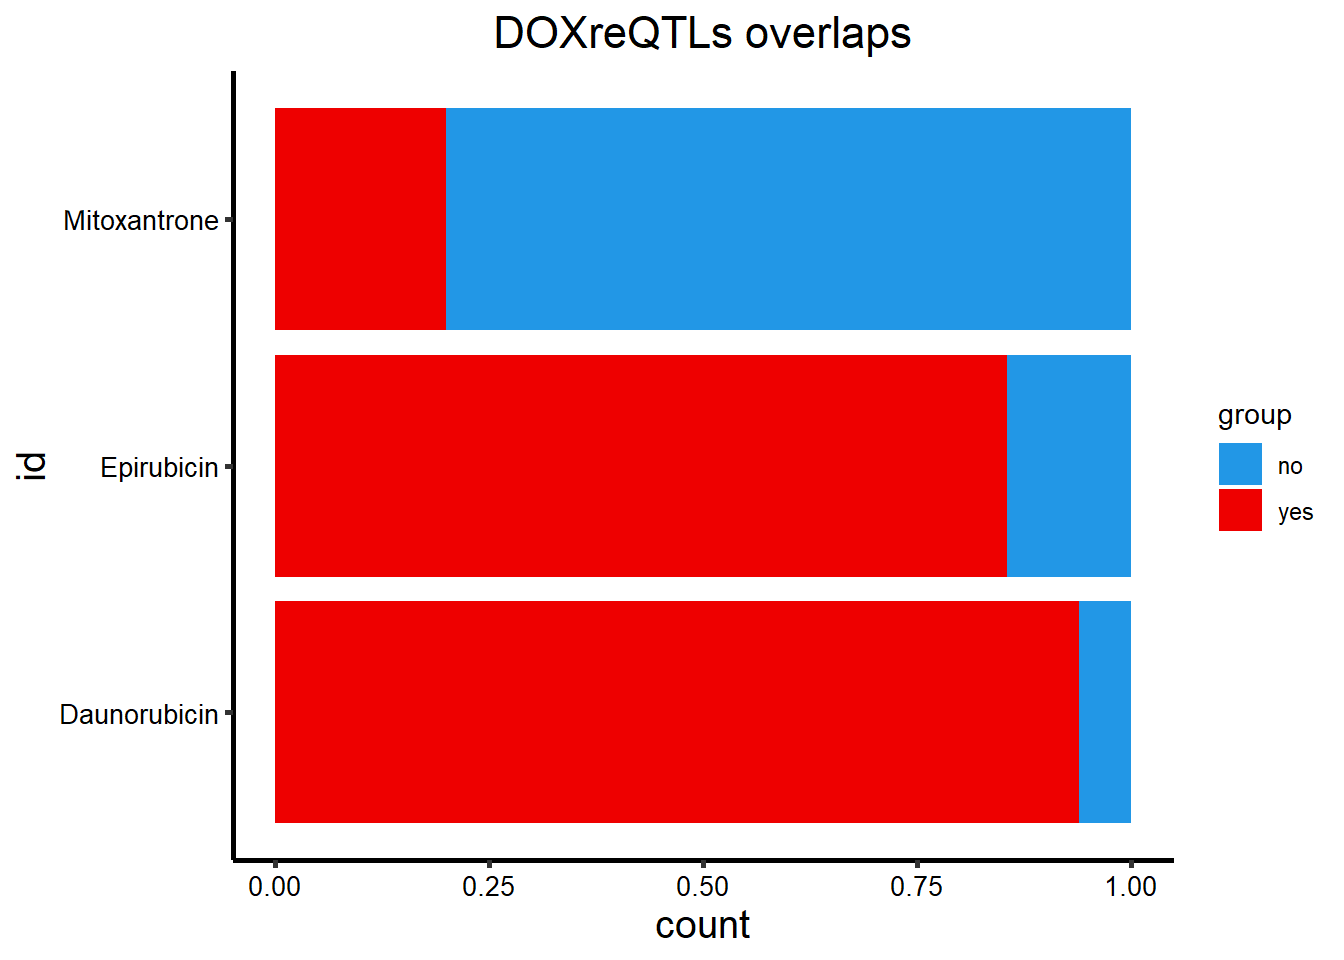
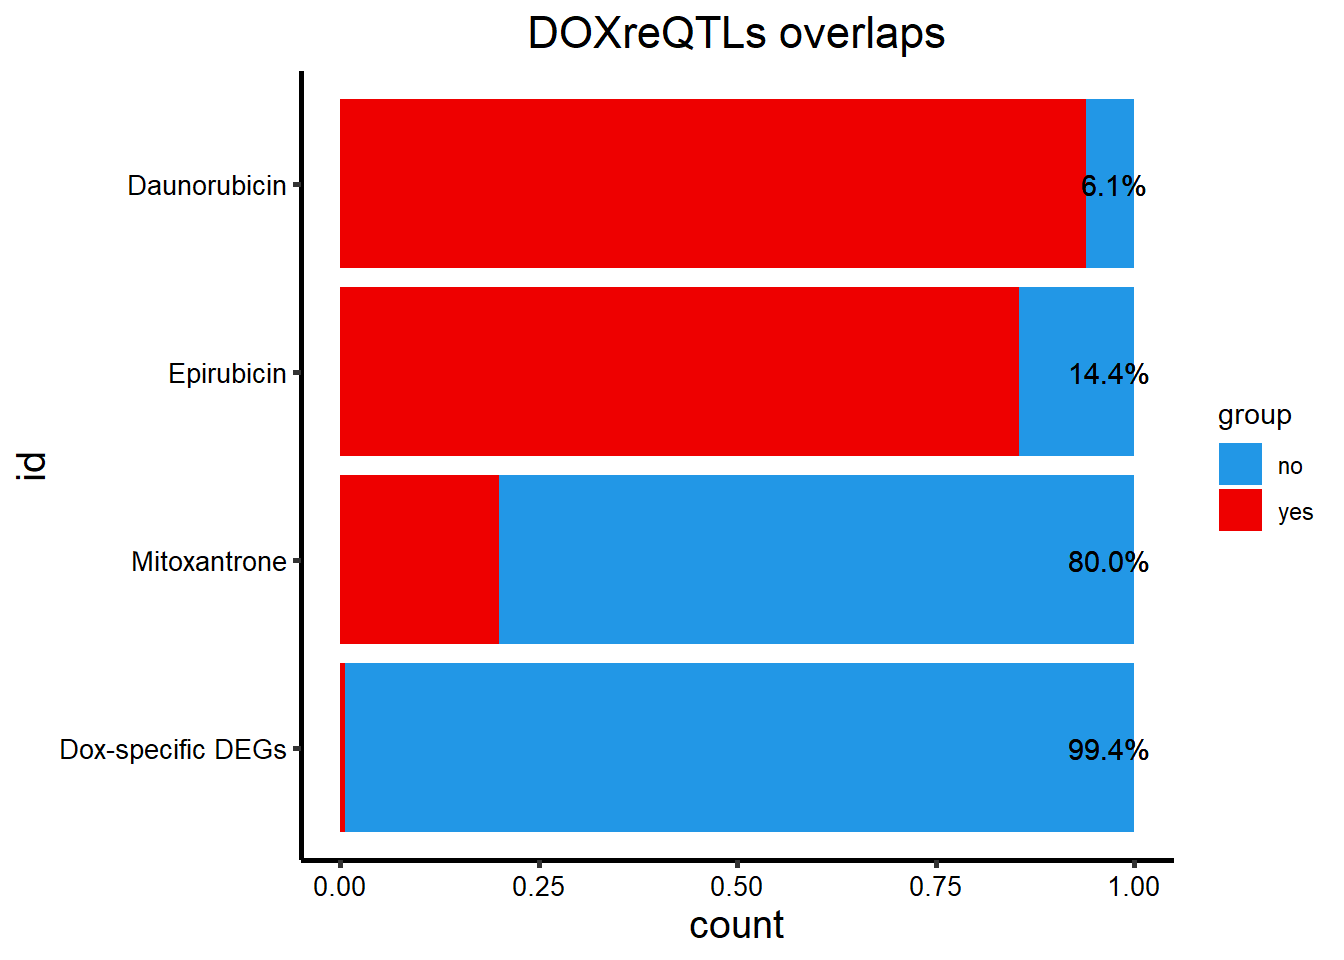
Build site.

diff --git a/docs/Knowles2019.html b/docs/Knowles2019.html
@@ -11,7 +11,7 @@
 
 <meta name="author" content="ERM" />
 
-<meta name="date" content="2023-06-20" />
+<meta name="date" content="2023-06-21" />
 
 <title>Knowles 2019 data</title>
 
@@ -363,7 +363,7 @@ div.tocify {
 
 <h1 class="title toc-ignore">Knowles 2019 data</h1>
 <h4 class="author">ERM</h4>
-<h4 class="date">2023-06-20</h4>
+<h4 class="date">2023-06-21</h4>
 
 </div>
 
@@ -392,7 +392,7 @@ class="glyphicon glyphicon-ok text-success" aria-hidden="true"></span>
 <div class="tab-content">
 <div id="summary" class="tab-pane fade in active">
 <p>
-<strong>Last updated:</strong> 2023-06-20
+<strong>Last updated:</strong> 2023-06-21
 </p>
 <p>
 <strong>Checks:</strong> <span
@@ -523,15 +523,15 @@ project makes it easier to run your code on other machines.</p>
 <div class="panel panel-default">
 <div class="panel-heading">
 <p class="panel-title">
-<a data-toggle="collapse" data-parent="#workflowr-checks" href="#strongRepositoryversionstrongahrefhttpsgithubcomreneeisnowhereCardiotoxicitytreec26c27b1eb7c477eb1a294fced104fffaa57036ctargetblankc26c27ba">
+<a data-toggle="collapse" data-parent="#workflowr-checks" href="#strongRepositoryversionstrongahrefhttpsgithubcomreneeisnowhereCardiotoxicitytree347bf4c7a5f5c9a6e7e60ee7bfd6c15357251e29targetblank347bf4ca">
 <span class="glyphicon glyphicon-ok text-success"
 aria-hidden="true"></span> <strong>Repository version:</strong>
-<a href="https://github.com/reneeisnowhere/Cardiotoxicity/tree/c26c27b1eb7c477eb1a294fced104fffaa57036c" target="_blank">c26c27b</a>
+<a href="https://github.com/reneeisnowhere/Cardiotoxicity/tree/347bf4c7a5f5c9a6e7e60ee7bfd6c15357251e29" target="_blank">347bf4c</a>
 </a>
 </p>
 </div>
 <div
[2 lines of base64/hex data omitted]
 class="panel-collapse collapse">
 <div class="panel-body">
 <p>
@@ -541,7 +541,7 @@ reproducibility.
 </p>
 <p>
 The results in this page were generated with repository version
-<a href="https://github.com/reneeisnowhere/Cardiotoxicity/tree/c26c27b1eb7c477eb1a294fced104fffaa57036c" target="_blank">c26c27b</a>.
+<a href="https://github.com/reneeisnowhere/Cardiotoxicity/tree/347bf4c7a5f5c9a6e7e60ee7bfd6c15357251e29" target="_blank">347bf4c</a>.
 See the <em>Past versions</em> tab to see a history of the changes made
 to the R Markdown and HTML files.
 </p>
@@ -741,6 +741,40 @@ Message
 </tr>
 </thead>
 <tbody>
+<tr>
+<td>
+Rmd
+</td>
+<td>
+<a href="https://github.com/reneeisnowhere/Cardiotoxicity/blob/347bf4c7a5f5c9a6e7e60ee7bfd6c15357251e29/analysis/Knowles2019.Rmd" target="_blank">347bf4c</a>
+</td>
+<td>
+reneeisnowhere
+</td>
+<td>
+2023-06-21
+</td>
+<td>
+adding in Doxspecific to graph
+</td>
+</tr>
+<tr>
+<td>
+html
+</td>
+<td>
+<a href="https://rawcdn.githack.com/reneeisnowhere/Cardiotoxicity/774967683c290d6d8271cdfced8ff82e16deac06/docs/Knowles2019.html" target="_blank">7749676</a>
+</td>
+<td>
+reneeisnowhere
+</td>
+<td>
+2023-06-20
+</td>
+<td>
+Build site.
+</td>
+</tr>
 <tr>
 <td>
 Rmd
@@ -971,7 +1005,9 @@ updating code
 </div>
 <div id="package-loading" class="section level6">
 <h6>package loading</h6>
-<p>##function load</p>
+</div>
+<div id="function-load" class="section level2">
+<h2>function load</h2>
 </div>
 <div id="knowles-data" class="section level2">
 <h2>Knowles data</h2>
@@ -2406,7 +2442,7 @@ Here, I found 119 reQTLs that were related to all anthracyclines, with
   pivot_wider(.,id_cols = c(id,DOXreQTLs),names_from = sigcount,values_from = n) %&gt;% 
   dplyr::select(id,DOXreQTLs,sig) 
 DOXeQTL_table%&gt;% 
-  kable(., caption= &quot;All 24 hour sidDEGs broken down by drug and DOXreQTL status&quot;) %&gt;% 
+  kable(., caption= &quot;All 24 hour sigDEGs broken down by drug and DOXreQTL status&quot;) %&gt;% 
   kable_paper(&quot;striped&quot;, full_width = FALSE) %&gt;% 
   kable_styling(full_width = FALSE, position = &quot;left&quot;,bootstrap_options = c(&quot;striped&quot;),font_size = 18) %&gt;% 
   scroll_box(width = &quot;80%&quot;, height = &quot;400px&quot;)</code></pre>
@@ -2414,7 +2450,7 @@ DOXeQTL_table%&gt;%
 style="border: 1px solid #ddd; padding: 0px; overflow-y: scroll; height:400px; overflow-x: scroll; width:80%; ">
 <table class=" lightable-paper lightable-striped table table-striped" style="font-family: &quot;Arial Narrow&quot;, arial, helvetica, sans-serif; width: auto !important; margin-left: auto; margin-right: auto; font-size: 18px; width: auto !important; ">
 <caption style="font-size: initial !important;">
-All 24 hour sidDEGs broken down by drug and DOXreQTL status
+All 24 hour sigDEGs broken down by drug and DOXreQTL status
 </caption>
 <thead>
 <tr>
@@ -2544,18 +2580,22 @@ NA
 </table>
 </div>
 <pre class="r"><code>DOXeQTL_table %&gt;%
+  add_row(id=c(&quot;Dox-specific DEGs&quot;,&quot;Dox-specific DEGs&quot;),DOXreQTLs=c(&quot;no&quot;,&quot;y&quot;), sig = c(62,1)) %&gt;% 
   dplyr::filter(DOXreQTLs==&quot;y&quot;) %&gt;% 
   mutate(opp= 180-sig) %&gt;% 
   filter(id !=c(&#39;Trastuzumab&#39;,&#39;Doxorubicin&#39;)) %&gt;% 
   rename(&quot;yes&quot;=sig, &quot;no&quot;=opp) %&gt;% 
-  pivot_longer(!c(id,DOXreQTLs), names_to=&quot;group&quot;, values_to = &quot;count&quot;) %&gt;% 
-  mutate(id=factor(id, levels=c(&quot;Daunorubicin&quot;,&quot;Epirubicin&quot;, &quot;Mitoxantrone&quot;))) %&gt;% 
+  mutate(y_percent= paste0(sprintf(&quot;%2.1f&quot;, yes/(yes+no)*100), &quot;%&quot;),n_percent = paste0(sprintf(&quot;%2.1f&quot;, no/(yes+no)*100),&quot;%&quot;)) %&gt;% 
+  pivot_longer(!c(id,DOXreQTLs,y_percent,n_percent), names_to=&quot;group&quot;, values_to = &quot;count&quot;) %&gt;% 
+  mutate(id=factor(id, levels=c(&quot;Daunorubicin&quot;,&quot;Epirubicin&quot;, &quot;Mitoxantrone&quot;,&quot;Dox-specific DEGs&quot;))) %&gt;% 
 ggplot(., aes(y=id,x=count,fill=group))+
      geom_col(position=&#39;fill&#39;)+
     theme_classic()+
    scale_color_manual(values=c(&quot;red4&quot;,&quot;navy&quot;))+
     scale_fill_manual(values=c(&quot;#2297E6&quot;,&quot;red2&quot;))+
   ggtitle(&quot;DOXreQTLs overlaps&quot;)+
+  scale_y_discrete(limits=rev)+
+  geom_text(aes(y=id,x=1, label = n_percent,hjust=.8))+
 
     theme(plot.title = element_text(size = rel(1.5), hjust = 0.5),
         axis.title = element_text(size = 15, color = &quot;black&quot;),
@@ -3370,6 +3410,8 @@ MTMR9
 </tbody>
 </table>
 </div>
+<pre class="r"><code>intersect(DOXreQTLs$ENTREZID, DOXdeg_sp$ENTREZID)</code></pre>
+<pre><code>[1] &quot;57338&quot;</code></pre>
 <pre class="r"><code>toplist24hr %&gt;% 
   group_by(time,id) %&gt;% 
   filter(ENTREZID %in% DOXdeg_sp$ENTREZID) %&gt;% 
@@ -3389,9 +3431,7 @@ MTMR9
 <p><img src="figure/Knowles2019.Rmd/Dox%20investigation-1.png" width="672" style="display: block; margin: auto;" /></p>
 <pre class="r"><code>    # strip.text.x = element_text(size = 12, color = &quot;black&quot;, face = &quot;italic&quot;))
 
-toplist24hr %&gt;% 
-  # filter(if_else(id==&quot;Doxorubicin&quot;,adj.P.Val&lt;0.01,adj.P.Val&gt;0.01 )) %&gt;% 
-  group_by(time,id) %&gt;% 
+toplist24hr %&gt;% group_by(time,id) %&gt;% 
   filter(ENTREZID %in% DoxonlyDEG) %&gt;% 
   filter(adj.P.Val &lt;0.05) %&gt;% 
   ggplot(., aes(x=adj.P.Val))+
